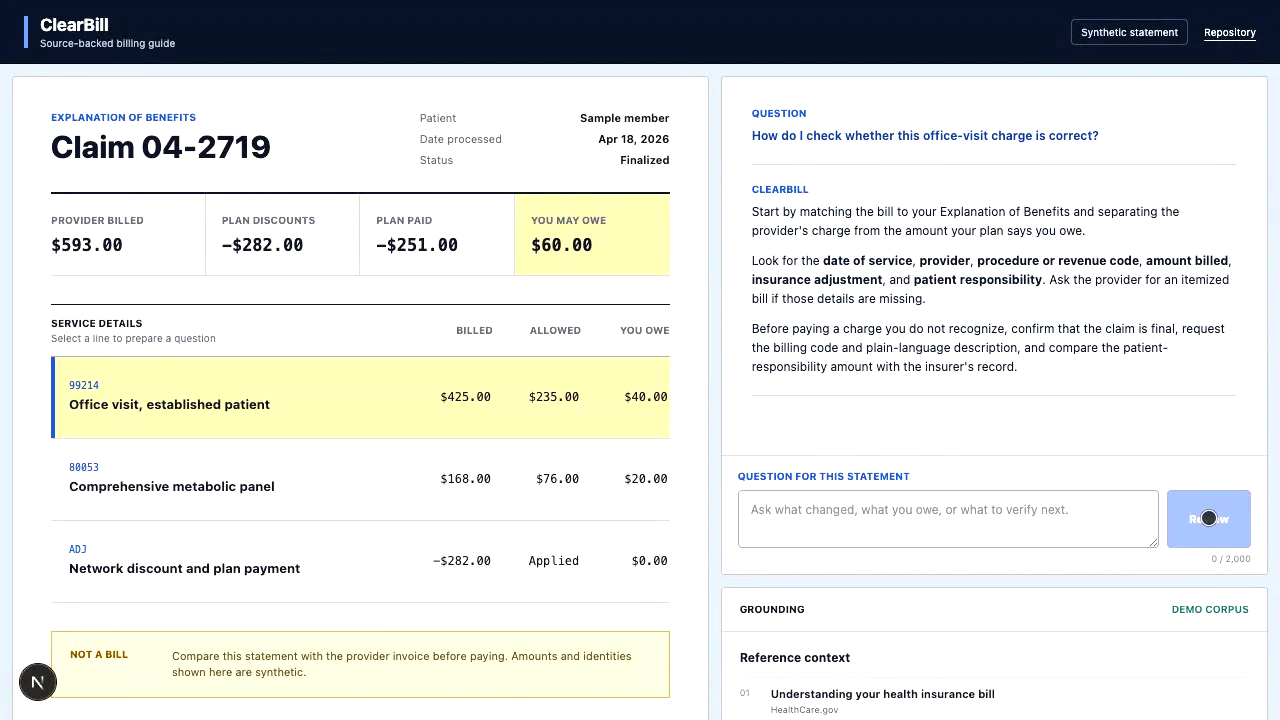
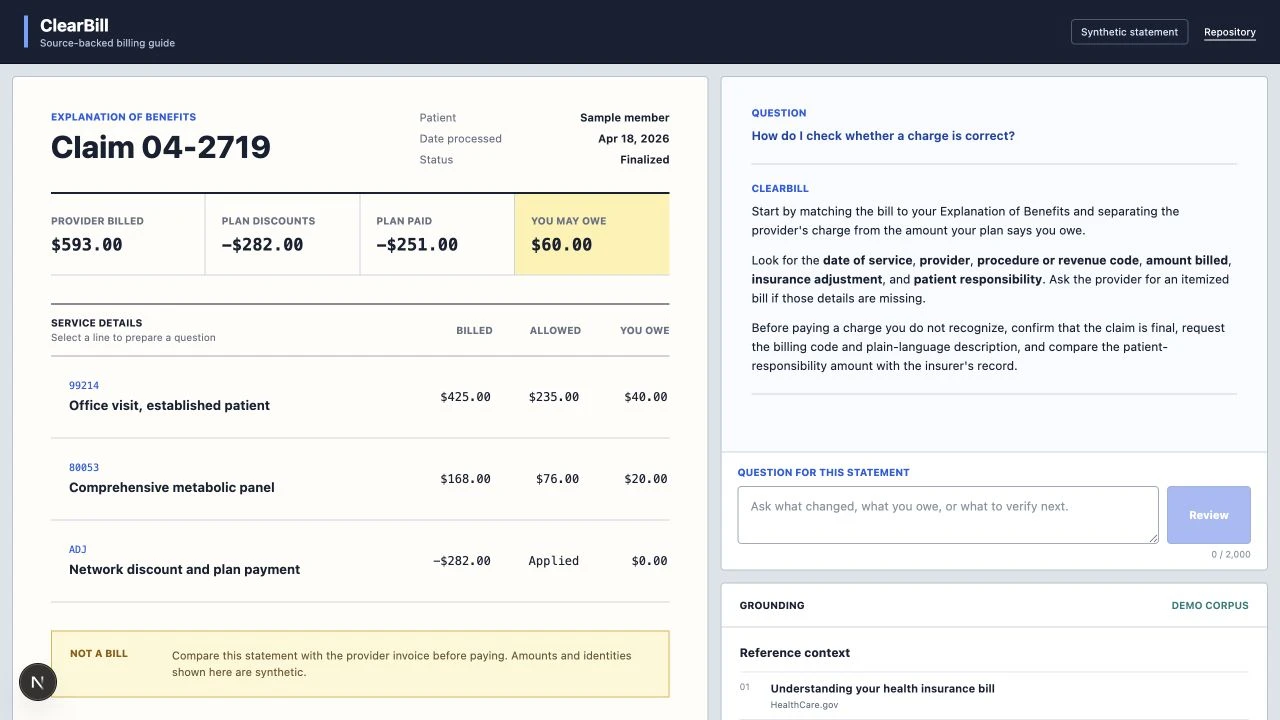
Polish product demo and interface presentation

diff --git a/design-qa.md b/design-qa.md
@@ -1,0 +1,24 @@
+# ClearBill design QA
+
+## Direction
+
+- Preserve the Explanation of Benefits workspace rather than forcing the app into the same visual system as the other projects.
+- The claim document remains the primary artifact; the assistant, citations, and boundaries form a review rail beside it.
+- Reference capture: `/Users/ethanvillalovoz/Documents/Codex/2026-07-09/files-mentioned-by-the-user-agents/outputs/clearbill-design-qa/clearbill-current.png`.
+
+## Visual review
+
+- The project reads as a billing document tool, not a generic chatbot dashboard.
+- Selected service rows, amounts, source records, and safety boundaries retain distinct visual roles.
+- The synthetic-data label and privacy warning remain visible without becoming promotional copy.
+- Mobile stacks the claim and review rail without horizontal overflow.
+
+## Functional review
+
+- Claim-line selection prepares a line-specific question.
+- Example questions populate the composer and the deterministic demo returns a source-backed answer.
+- Citation links and repository link remain external.
+- Desktop and 390 x 844 mobile checks passed with no browser-console warnings or errors.
+- `npm run check` passes lint, TypeScript, six Vitest tests, and the Next.js production build.
+
+final result: passed

diff --git a/THIRD_PARTY_NOTICES.md b/THIRD_PARTY_NOTICES.md
@@ -1,0 +1,20 @@
+# Third-Party Notices
+
+## Lucide
+
+The ClearBill favicon uses the `receipt-text` icon from
+[Lucide](https://lucide.dev/), distributed under the ISC License.
+
+Copyright (c) 2022 Lucide Contributors
+
+Permission to use, copy, modify, and/or distribute this software for any
+purpose with or without fee is hereby granted, provided that the above
+copyright notice and this permission notice appear in all copies.
+
+THE SOFTWARE IS PROVIDED "AS IS" AND THE AUTHOR DISCLAIMS ALL WARRANTIES WITH
+REGARD TO THIS SOFTWARE INCLUDING ALL IMPLIED WARRANTIES OF MERCHANTABILITY
+AND FITNESS. IN NO EVENT SHALL THE AUTHOR BE LIABLE FOR ANY SPECIAL, DIRECT,
+INDIRECT, OR CONSEQUENTIAL DAMAGES OR ANY DAMAGES WHATSOEVER RESULTING FROM
+LOSS OF USE, DATA OR PROFITS, WHETHER IN AN ACTION OF CONTRACT, NEGLIGENCE OR
+OTHER TORTIOUS ACTION, ARISING OUT OF OR IN CONNECTION WITH THE USE OR
+PERFORMANCE OF THIS SOFTWARE.

diff --git a/README.md b/README.md
@@ -5,9 +5,9 @@ A source-backed healthcare cost explainer for understanding medical bills, insur
 [![CI](https://github.com/ethanvillalovoz/clearbill/actions/workflows/ci.yml/badge.svg)](https://github.com/ethanvillalovoz/clearbill/actions/workflows/ci.yml)
 [![License: Apache-2.0](https://img.shields.io/badge/license-Apache--2.0-111111.svg)](LICENSE)
 
-https://github.com/user-attachments/assets/ee19a69c-d62a-451d-9bfb-0664c02e63c4
+[![ClearBill demo: select a claim line and review a source-backed billing explanation](docs/media/clearbill-demo.gif)](docs/media/clearbill-demo.mp4)
 
-The recording shows one claim-line selection produce a grounded educational answer. The statement and response are visibly labeled as deterministic demo data. The tracked [MP4](docs/media/clearbill-demo.mp4) and [poster](docs/media/clearbill-poster.webp) preserve the source capture.
+Select a claim line, ask why the amount changed, and inspect the public guidance behind the answer. The claim and response are fixtures, clearly marked in the interface. [Watch the MP4](docs/media/clearbill-demo.mp4) or open the [poster frame](docs/media/clearbill-poster.webp).
 
 > ClearBill is an educational project, not medical, legal, insurance, or financial advice. Do not enter protected health information, member IDs, account numbers, diagnoses, or real billing records.
 
@@ -103,6 +103,8 @@ nextjs-clearbill-ai/app/data/        deterministic public demo fixtures
 nextjs-clearbill-ai/scripts/loadDB.ts corpus ingestion and embedding pipeline
 docs/media/                           verified interaction capture and poster
 ```
+
+The application icon is from Lucide; its license is reproduced in [THIRD_PARTY_NOTICES.md](THIRD_PARTY_NOTICES.md).
 
 ## Verification
 